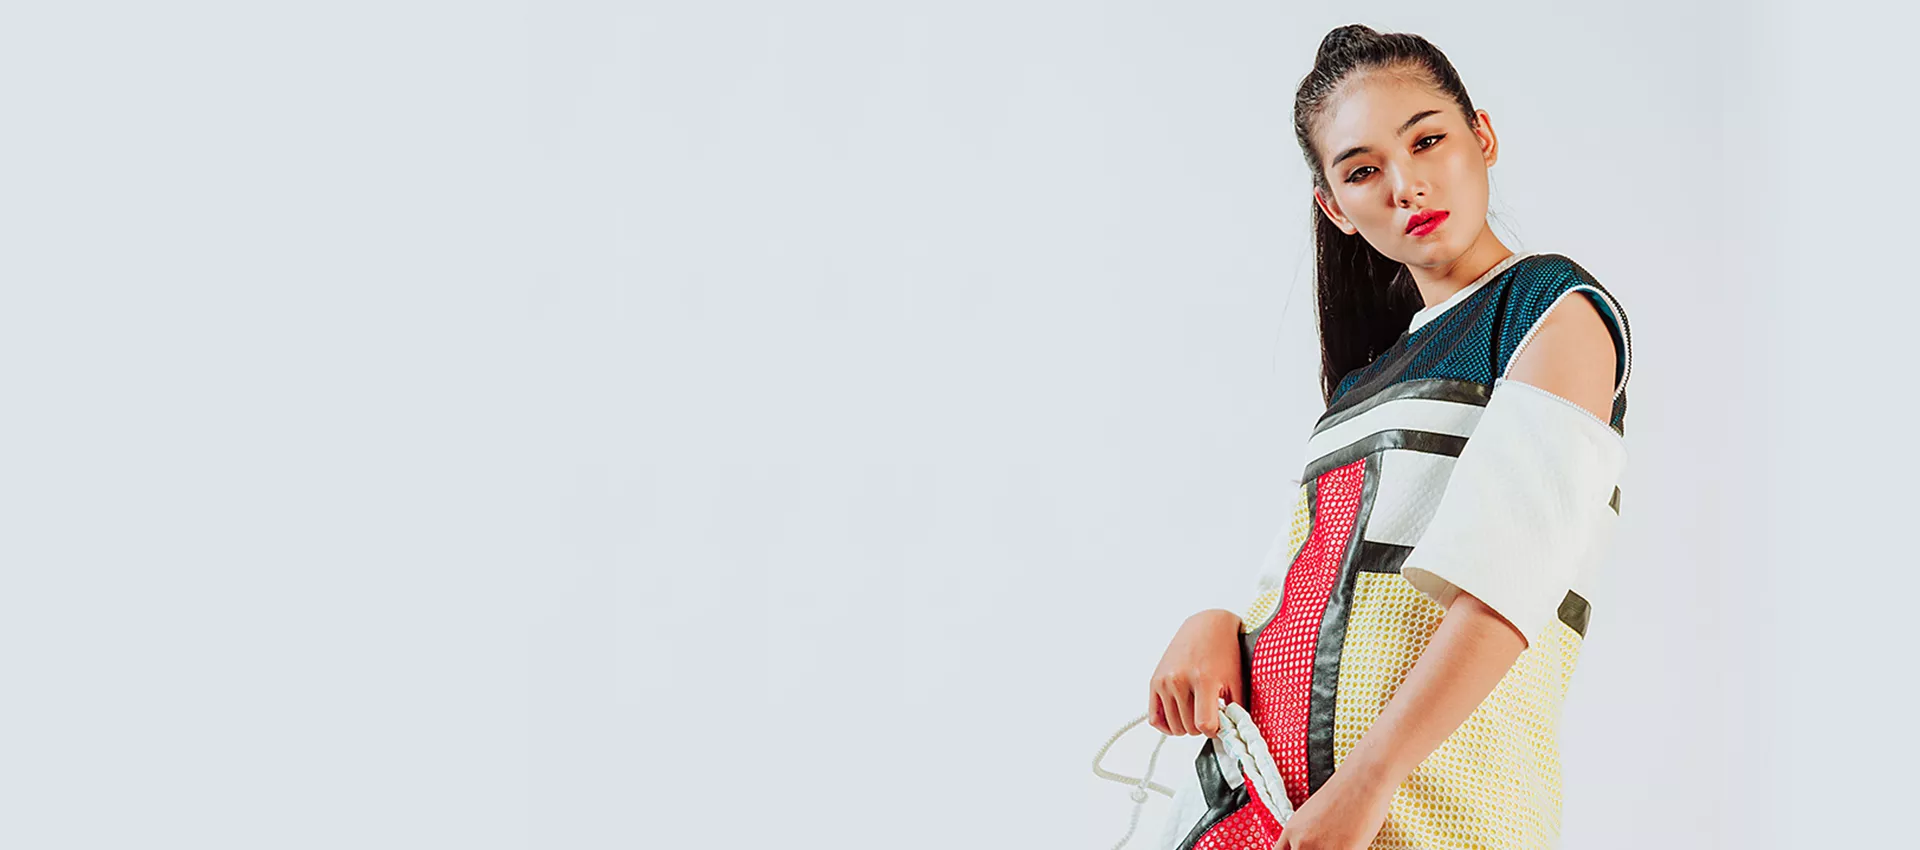
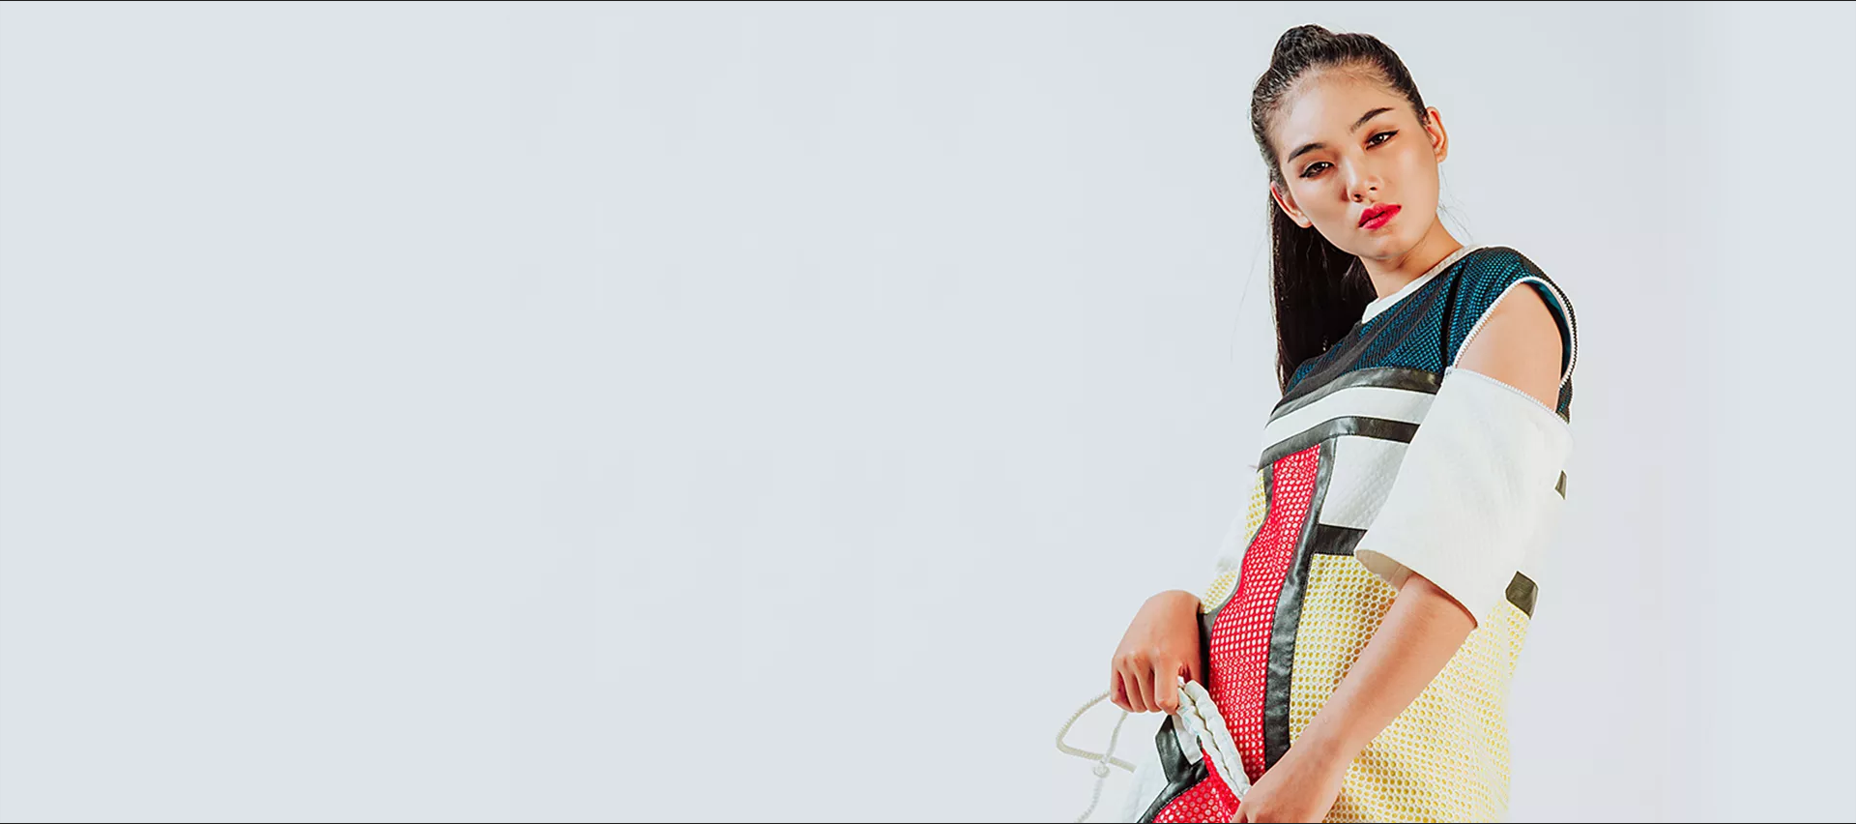
new pictures

diff --git a/pages/index.js b/pages/index.js
@@ -8,10 +8,9 @@ import styles from "../styles/Index.module.css";
 
 import Hero from "../components/Hero";
 // import DealCountdown from "../components/DealCountdown";
-import testimg from "../public/Screenshot_1.png";
 
 import { useEffect, useState } from "react";
-import img from "../public/discountimg.png";
+import img from "../public/dealgirl.png";
 
 import dealStyles from "../styles/DealCountdown.module.css";
 
@@ -88,7 +87,6 @@ export default function Home() {
           </div>
         </div>
       </section>
-      <Image src={testimg} layout="responsive" alt="test" />
     </>
   );
 }
